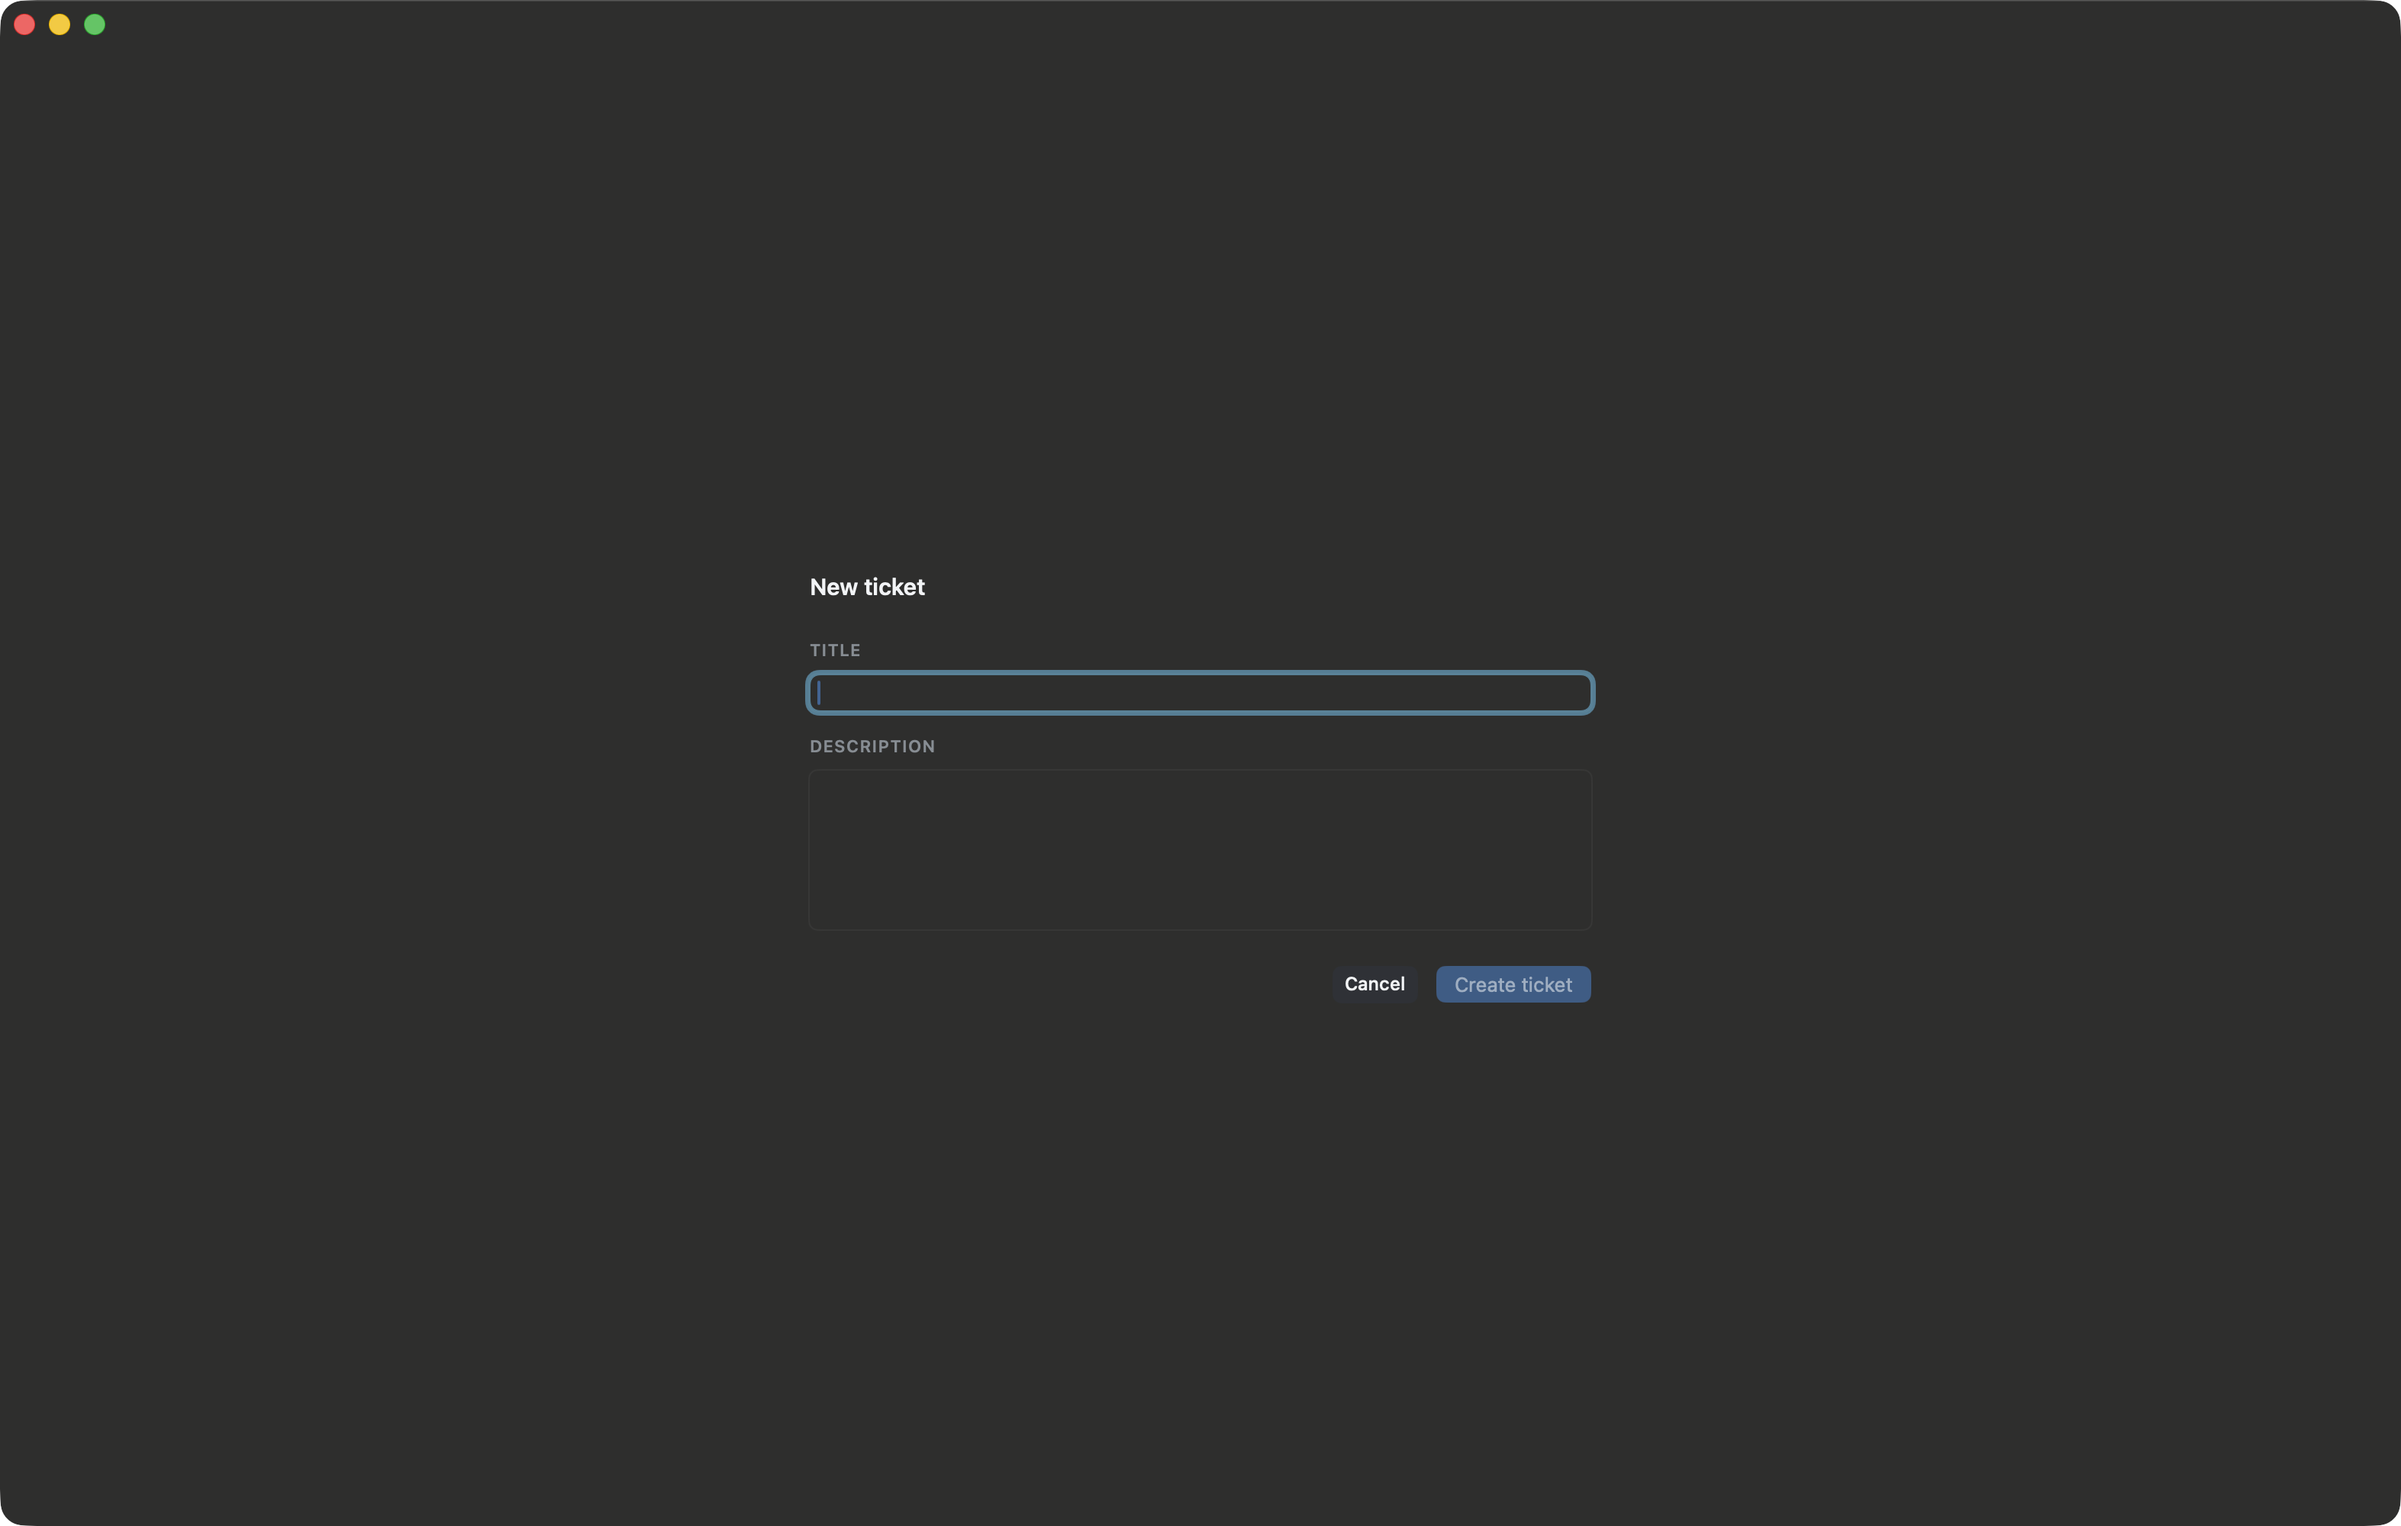
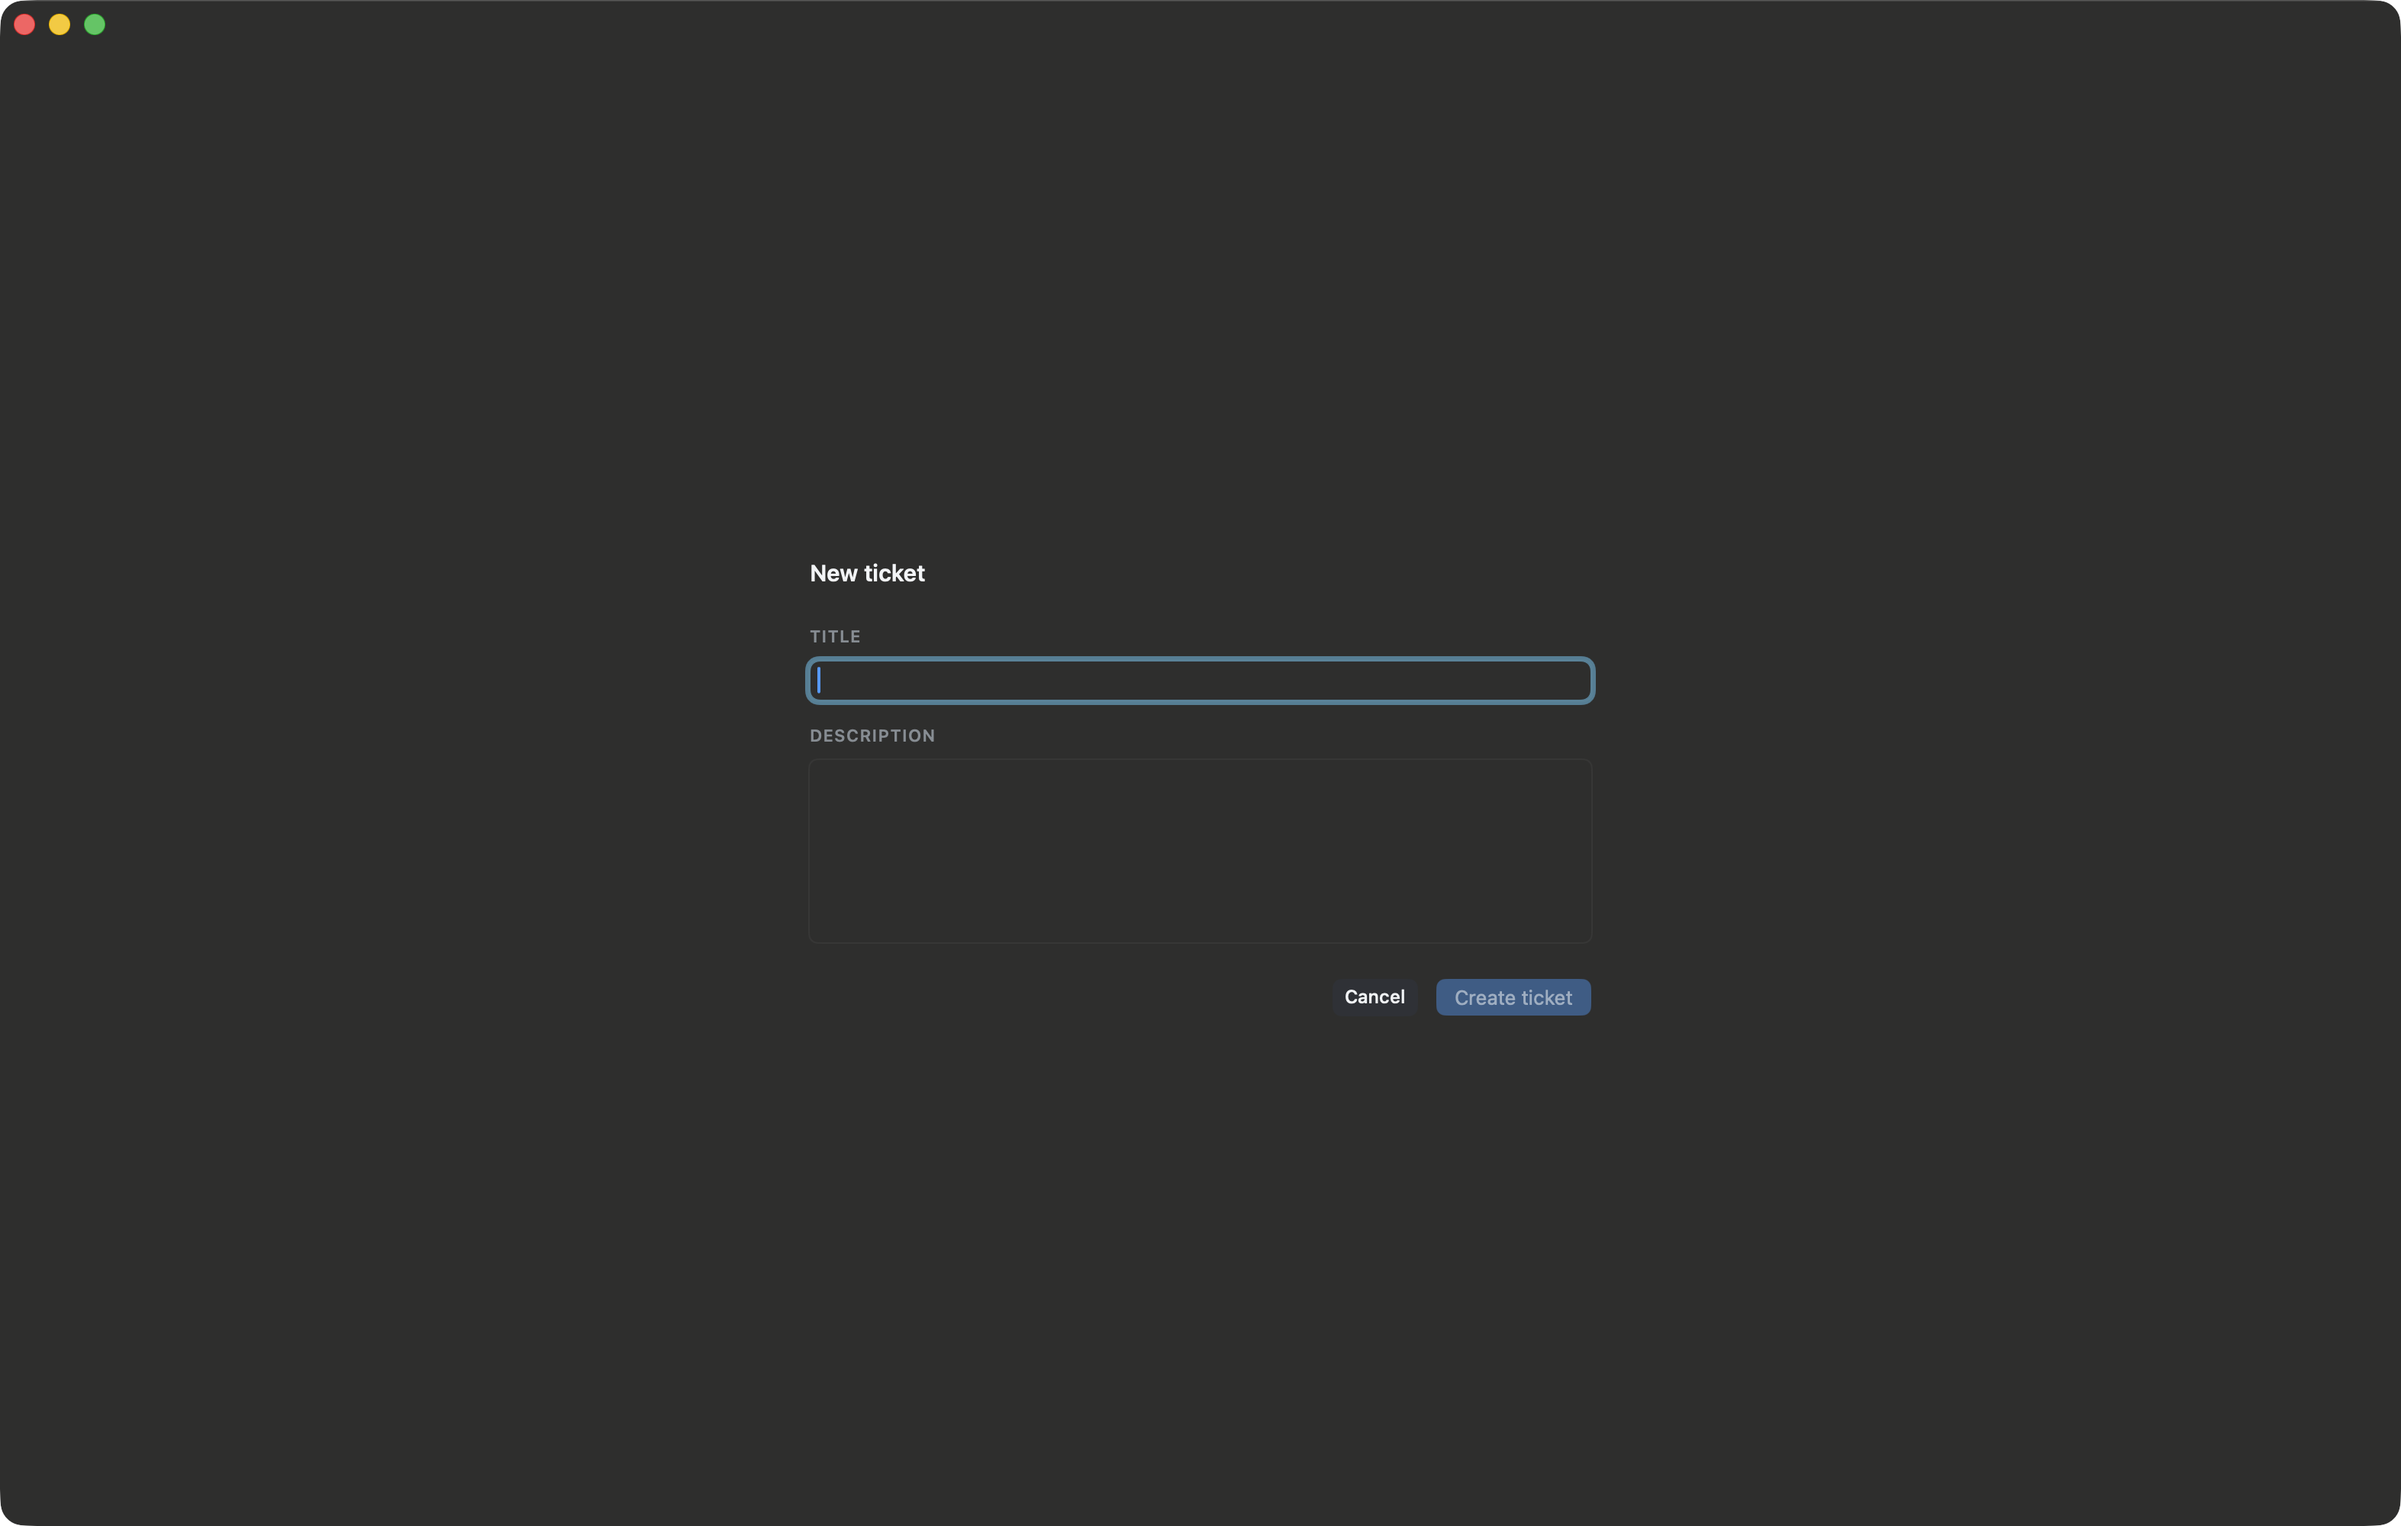
Put the sheet's fields on the type ramp and name them once (#891)
Dropping the `Form` also dropped the only thing setting the fields' face, so
both now carry `ArgoTypography.body` and `text.primary` like every other
free-standing field in the cockpit. The drawn `GroupLabel` is hidden from
VoiceOver because the field carries the same name — two elements for one
control read it twice.

Changed region(s): [[0.3115, 0.372, 0.6853, 0.496], [0.5607, 0.62, 0.6542, 0.682]]

diff --git a/apps/macOS/Packages/ArgoUI/Sources/ArgoUI/Shell/Tickets/Toolbar/NewTicketComposer.swift b/apps/macOS/Packages/ArgoUI/Sources/ArgoUI/Shell/Tickets/Toolbar/NewTicketComposer.swift
@@ -36,11 +36,6 @@ struct NewTicketComposer: View {
         .fixedSize(horizontal: false, vertical: true)
     }
 
-    /// The two fields, each under its own name (#891).
-    ///
-    /// No `Form`: macOS's grouped form style promotes a field's placeholder to a leading label and
-    /// sets the value trailing, which made this the one place in the cockpit a value was read from
-    /// the right.
     private var fields: some View {
         VStack(alignment: .leading, spacing: ArgoSpacing.loose) {
             field("Title") { TextField("", text: $composition.title) }
@@ -51,14 +46,15 @@ struct NewTicketComposer: View {
         }
     }
 
-    /// One name over what it names, both on the sheet's own leading edge. The name is drawn rather
-    /// than passed as the field's own label, so it carries the cockpit's `GroupLabel` and not the
-    /// platform's; the field keeps it for VoiceOver.
+    /// One name and what is typed under it. The drawn name is hidden from VoiceOver because the
+    /// field carries the same one: two elements for one control is what reads it twice.
     private func field(_ name: String, @ViewBuilder editor: () -> some View) -> some View {
         VStack(alignment: .leading, spacing: ArgoSpacing.base) {
             GroupLabel(name)
+                .accessibilityHidden(true)
             editor()
-                .multilineTextAlignment(.leading)
+                .argoText(ArgoTypography.body)
+                .foregroundStyle(argo.color.text.primary)
                 .accessibilityLabel(name)
         }
     }
